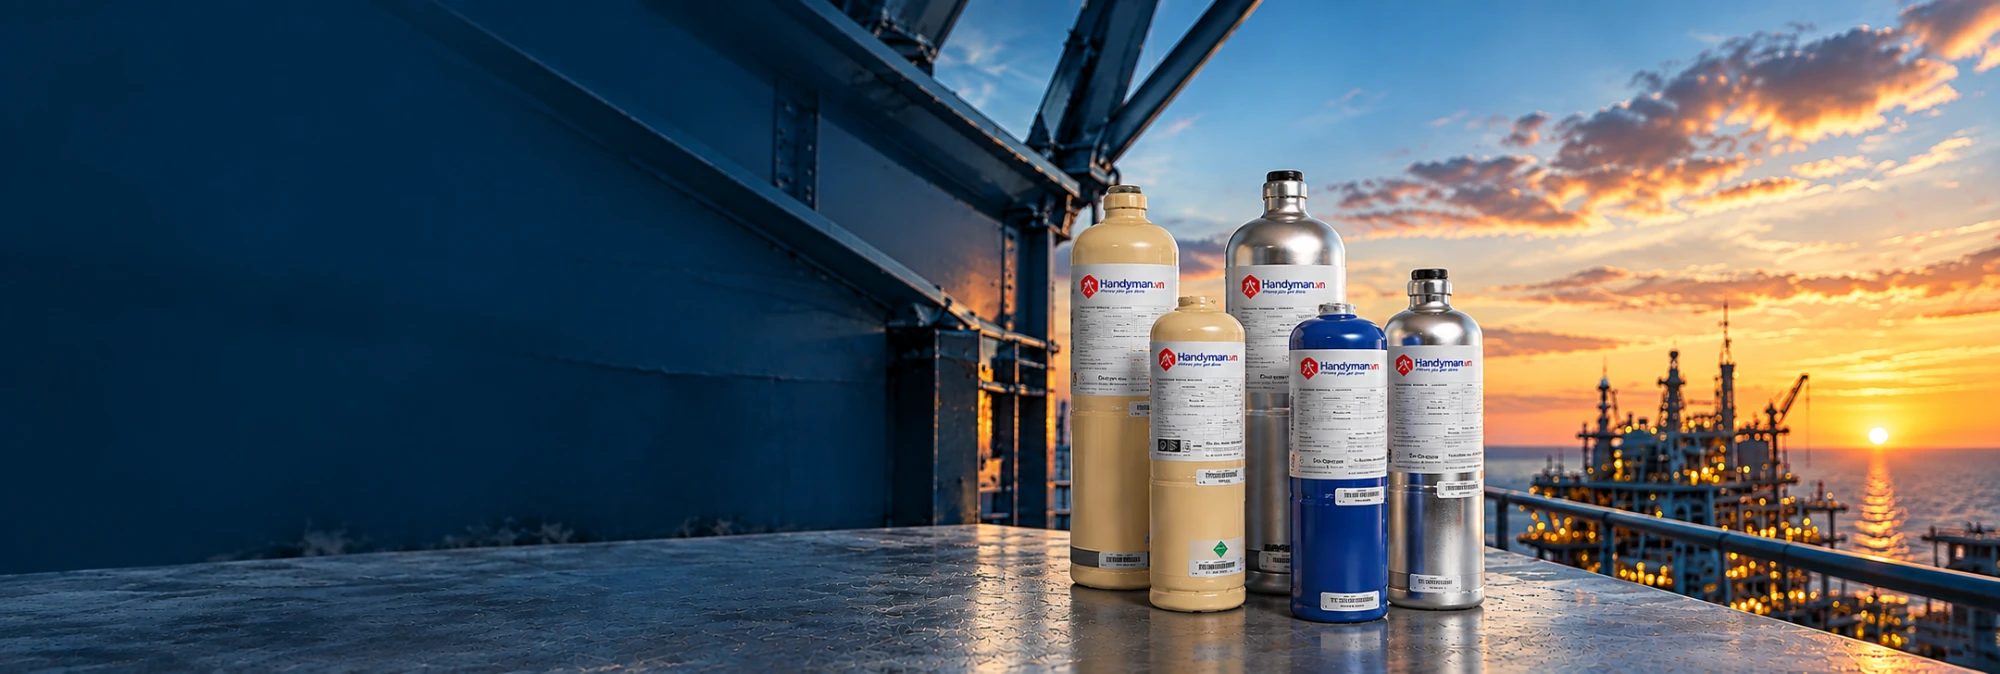
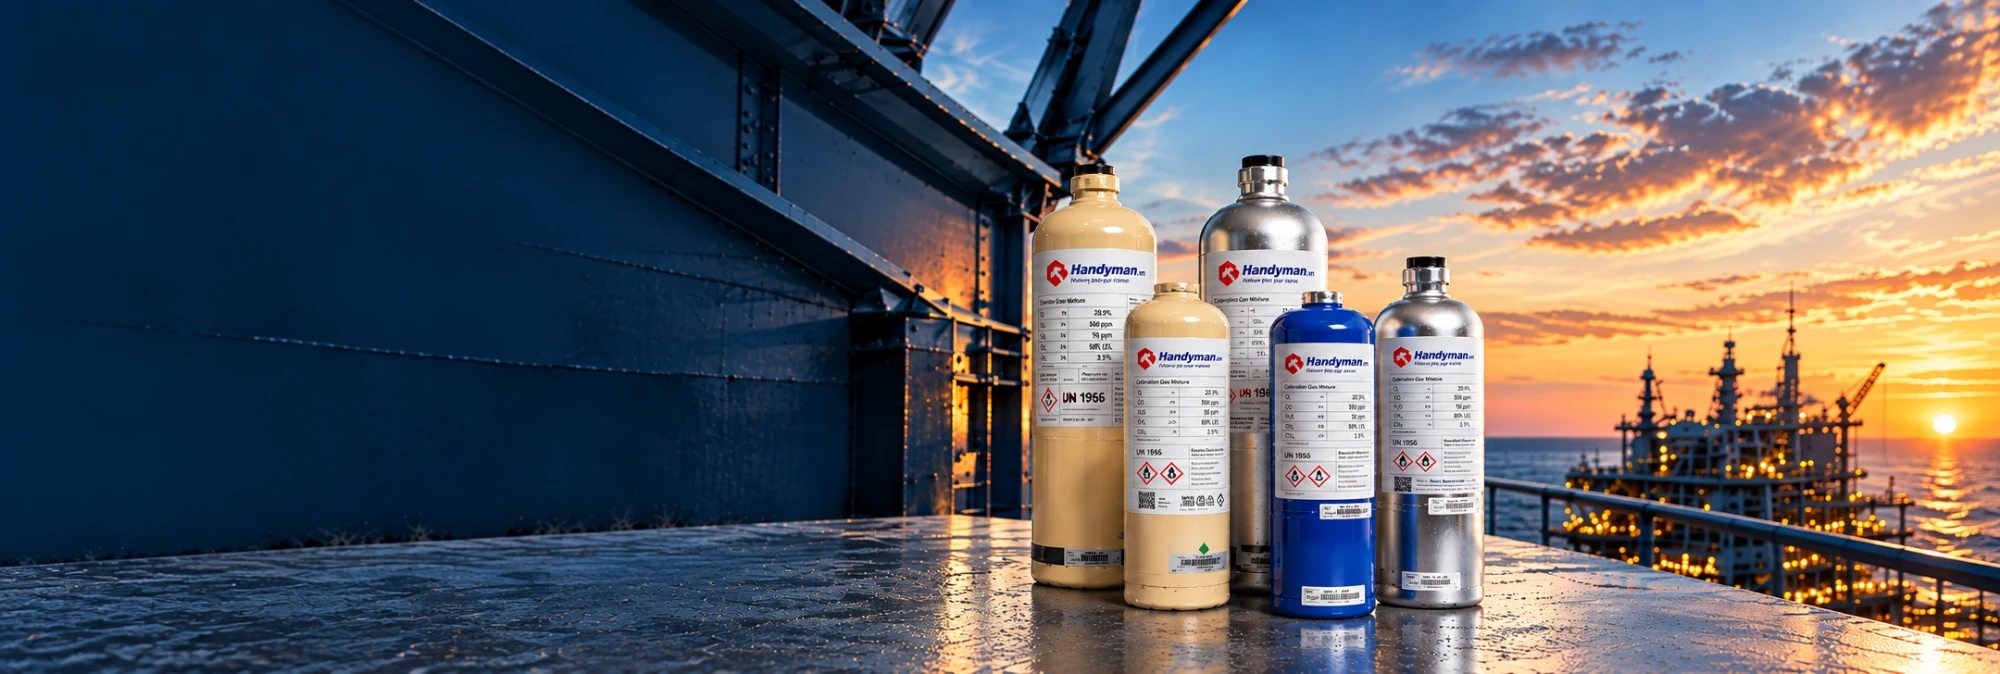
change hero img

diff --git a/src/styles/marine-theme.css b/src/styles/marine-theme.css
@@ -117,7 +117,7 @@ h1, h2, h3 { color: var(--hyperion-navy-950); }
   background-size: cover;
   background-position: center;
 }
-/* With the photo (hero.webp, 2000 × 674; cylinders span 53.4–74.25% of its width, 25–92% of its height).
+/* With the photo (hero.webp, 2000 × 674; cylinders span 51.6–74.25% of its width, 23–92% of its height).
    ≥ 1280px — one zoomed photo, no fades. Its box is anchored so the cylinders' right edge sits 8px left of the
    gas card (the card is aligned with the content column = header edge), and it is made wide enough to cover
    the hero on both sides. background-position-x 74.25% keeps the cylinders' right edge at 74.25% of the box
@@ -137,7 +137,7 @@ h1, h2, h3 { color: var(--hyperion-navy-950); }
 @media (max-width: 1279.98px) {
   .hero-backdrop-photo { left: 0; right: 0; width: auto; transform: none; background-position: 45% 100%; }
 }
-@media (max-width: 1023.98px) { .hero-backdrop-photo { background-position: 40% 100%; } }
+@media (max-width: 1023.98px) { .hero-backdrop-photo { background-position: 35% 100%; } }
 .hero-backdrop::after {
   content: ''; position: absolute; inset: 0;
   background: linear-gradient(90deg, rgba(4,33,53,.86) 0%, rgba(4,33,53,.70) 38%, rgba(4,33,53,.30) 68%, rgba(4,33,53,.08) 100%);

diff --git a/docs/handoff-calibration-gas.md b/docs/handoff-calibration-gas.md
@@ -35,7 +35,7 @@ Steps: 1 Mixture (all 5) → 2 Cylinder size (3 L / 8 L / 10 L; sizes that don't
   - A facts strip: **5** mixtures available · **3 · 8 · 10 L** cylinder sizes · **BS4 VALVE** supplied · **12 MONTHS** stability / expiry. The first two are computed from the product data.
   - A gas card, top right, showing 23.3.4.1.3286 (O₂ 20.9%, CO 500 ppm, H₂S 50 ppm, CH₄ 60% LEL, CO₂ 2.5%), read from the product data.
   - The intro paragraph, the facts strip and the gas card deliberately break template §1.1 ("no paragraph text, no statistics") because the business asked for this design.
-- **Hero photo:** the wide version, supplied 2026-09-25. It is saved as `src/assets/products/calibration-gas/hero.webp` (2000 × 674, about 3 : 1, 177 KB; cylinders at 53–74% of the width) under the §3.3 navy overlay. It has Handyman logos on the cylinders and **no faded edges**.
+- **Hero photo:** wide version with the accurate handyman.vn logo, supplied 2026-09-28. It is saved as `src/assets/products/calibration-gas/hero.webp` (2000 × 674, about 3 : 1, 223 KB; cylinders at 51.6–74.25% of the width) under the §3.3 navy overlay. It has Handyman logos on the cylinders and **no faded edges**.
   - It is below the template's 2400px width, so a larger export would look sharper on very wide screens.
   - **Facts** sit in one glass panel as a 2 × 2 grid (icon, bold value, one-line label).
   - **Gas card** is a compact glass panel (184px wide, 16px text, 42% navy tint with background blur). It sits inside the content column, so its right edge equals the header's CONTACT SALES edge, and it stays 16px clear of the cylinders. It shows from 1280px up.
@@ -43,7 +43,7 @@ Steps: 1 Mixture (all 5) → 2 Cylinder size (3 L / 8 L / 10 L; sizes that don't
   - **Below 1280px:** the photo covers the hero, positioned so the cylinders stay right of the copy.
   - **Measured** at 360–1920px, EN and VI: the photo covers the hero at every width, and no text, facts panel or gas card overlaps a cylinder.
     - The VI headline is capped at 500px and "chính xác" / "tin cậy" are joined with no-break spaces, so it reads "Khí chuẩn có chứng nhận / cho máy đo khí / chính xác, tin cậy."
-    - On tablets (768–1023px) some cylinders are partly off the right edge.
+    - On tablets (768–1023px) the photo is positioned at 35%, so the cylinders clear the intro; 2–4 of the 5 cylinders are fully visible there.
   - If the photo file is ever removed, the hero falls back to the navy motif with the cylinder photo on a light panel.
 - **Configurator heading** is "ORDER" / "ĐẶT HÀNG" (was "FIND YOUR CALIBRATION GAS"), at your request.
 - **One photo for every SKU and the feature visual:** only `HANDYMAN.8L.CALIBRATIONGAS.webp` exists (1920×1920 on white, 86 KB). The feature visual is shown in a white card because the photo has no transparency.
